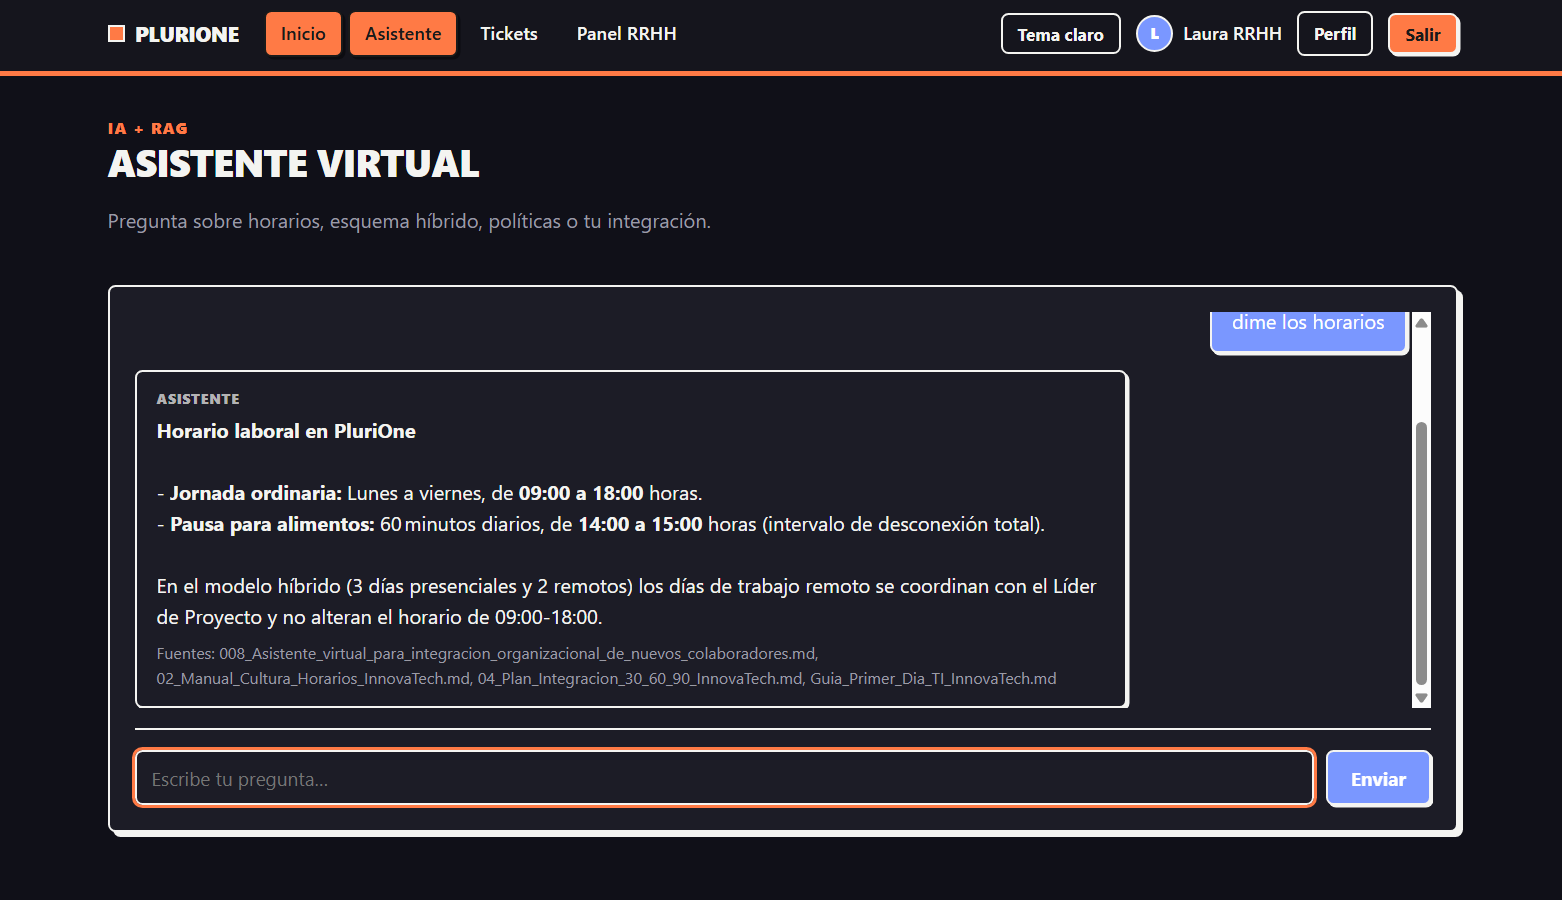
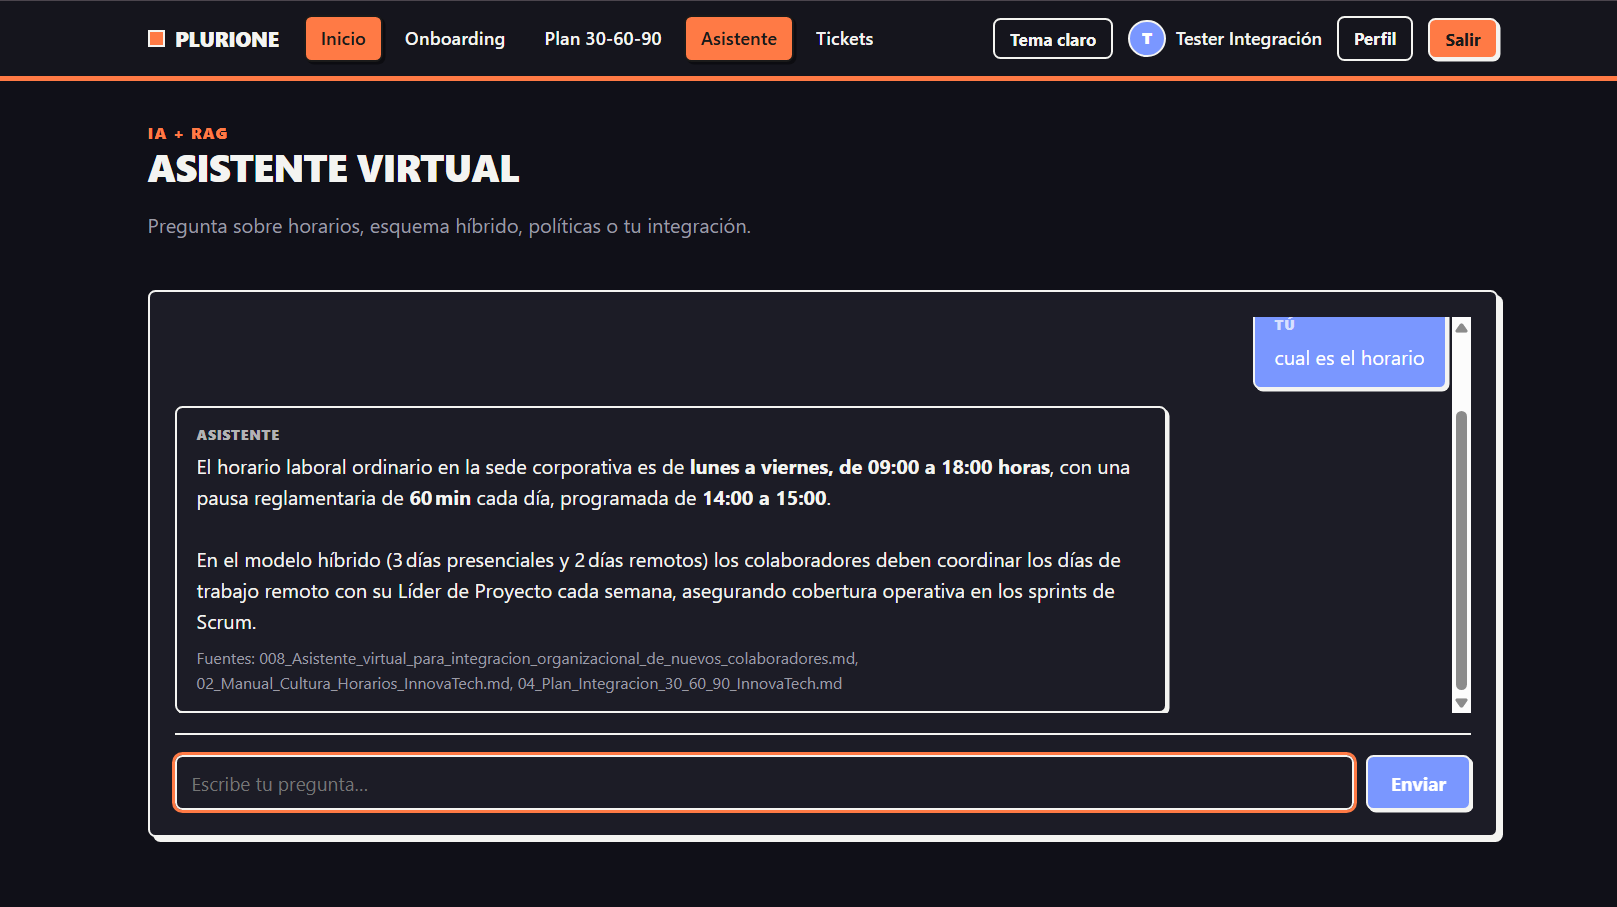
Traduce tareas, prioridad y rol; hace configurable Include Error Detail

Changed region(s): [[0.0615, 0.3111, 0.9526, 0.9333], [0.0, 0.0, 1.0, 0.0933], [0.0615, 0.1244, 0.4609, 0.28]]

diff --git a/services/web/Helpers/TaskItemStatus.cs b/services/web/Helpers/TaskItemStatus.cs
@@ -1,0 +1,13 @@
+namespace PluriOne.Web.Helpers;
+
+/// <summary>Traduce el estado de las tareas de onboarding a español.</summary>
+public static class TaskItemStatus
+{
+    public static string Label(string? status) => status switch
+    {
+        "pending" => "Pendiente",
+        "in_progress" => "En proceso",
+        "completed" => "Completada",
+        _ => status ?? string.Empty
+    };
+}

diff --git a/services/web/Helpers/UserRole.cs b/services/web/Helpers/UserRole.cs
@@ -1,0 +1,13 @@
+namespace PluriOne.Web.Helpers;
+
+/// <summary>Traduce el rol del usuario a español.</summary>
+public static class UserRole
+{
+    public static string Label(string? role) => role switch
+    {
+        "colaborador" => "Colaborador",
+        "rrhh" => "Recursos Humanos",
+        "admin" => "Administrador",
+        _ => role ?? string.Empty
+    };
+}

diff --git a/services/web/Helpers/TicketPriority.cs b/services/web/Helpers/TicketPriority.cs
@@ -1,0 +1,13 @@
+namespace PluriOne.Web.Helpers;
+
+/// <summary>Traduce la prioridad de los tickets a español.</summary>
+public static class TicketPriority
+{
+    public static string Label(string? priority) => priority switch
+    {
+        "low" => "Baja",
+        "normal" => "Normal",
+        "high" => "Alta",
+        _ => priority ?? string.Empty
+    };
+}
